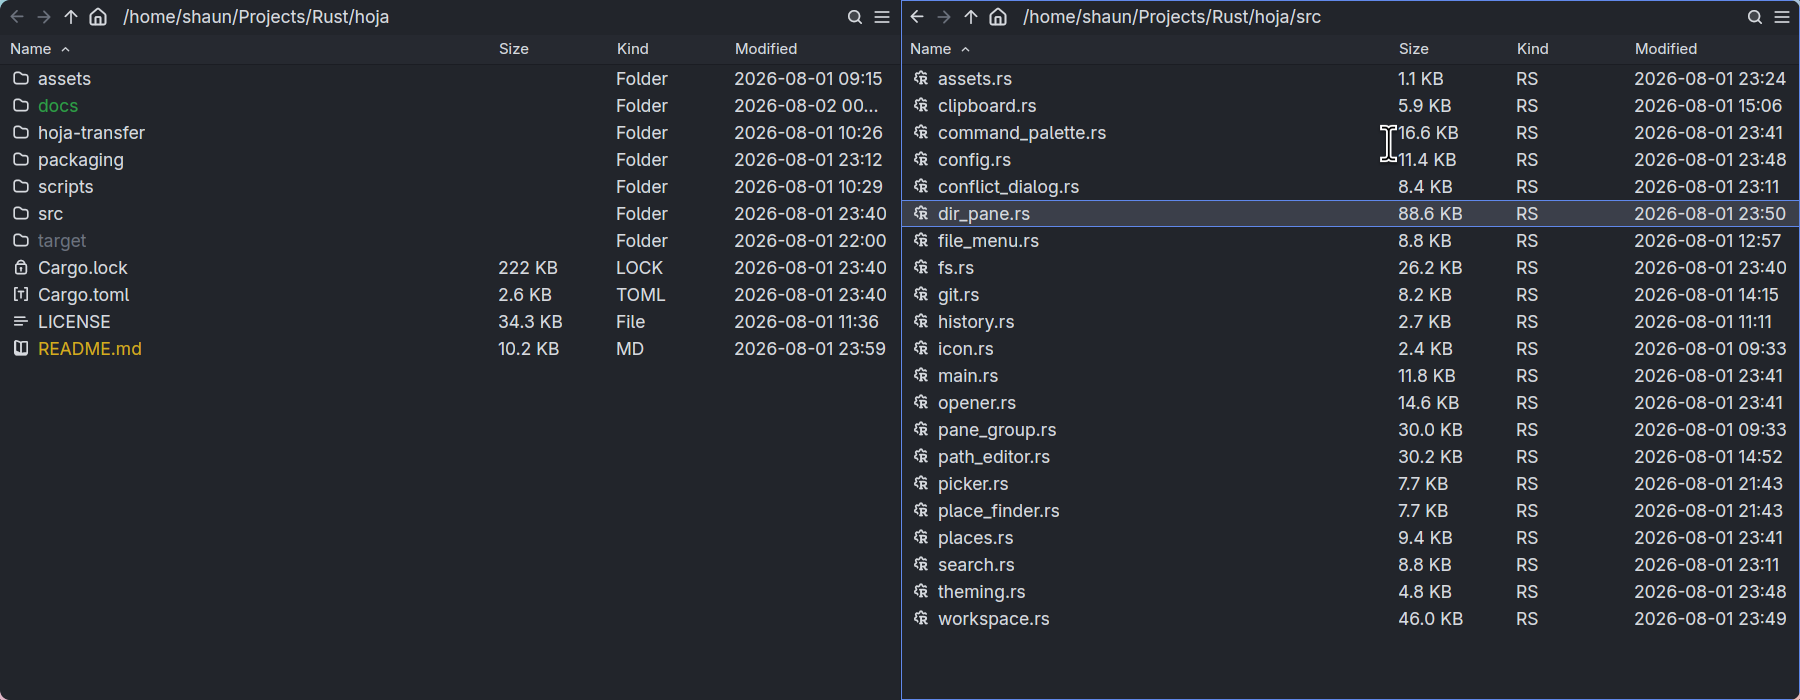
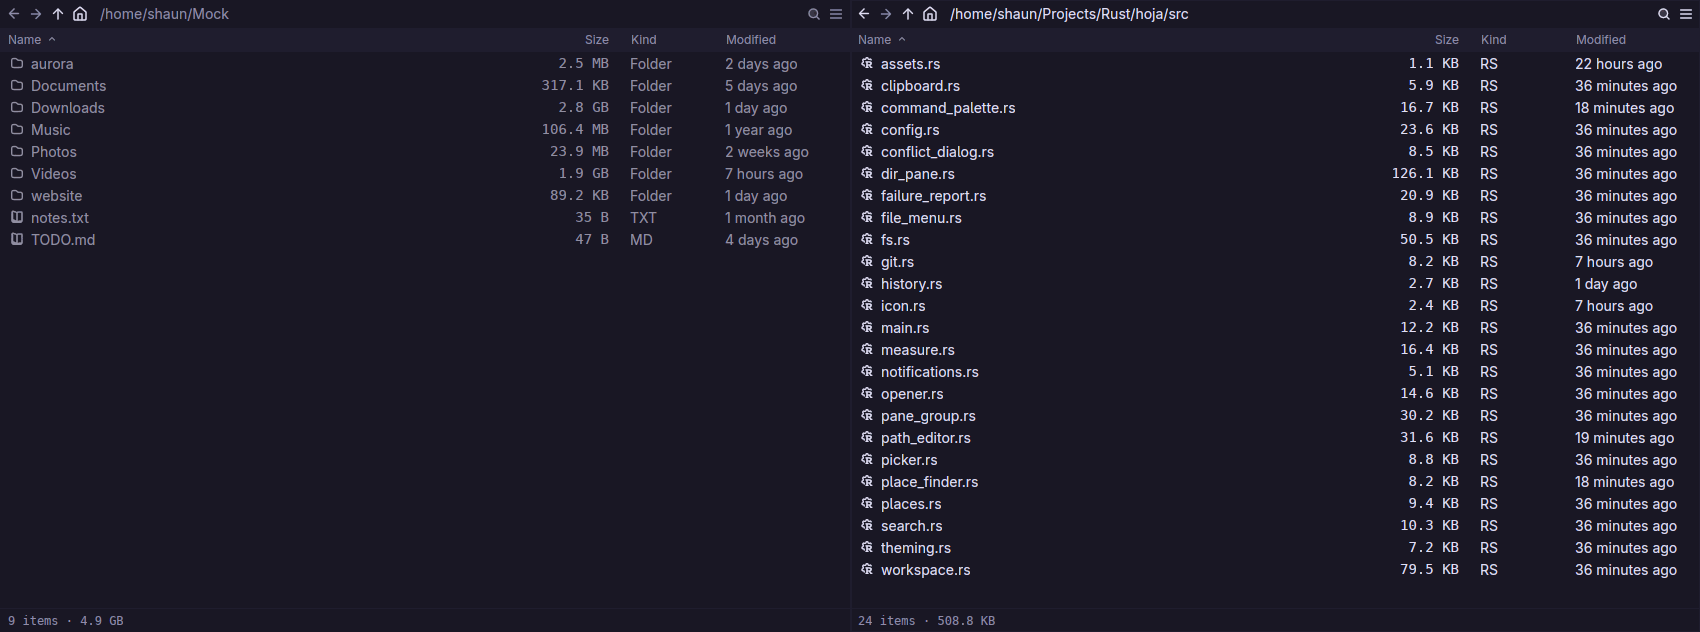
Retake the screenshot
The old one predated the pane footers, folder sizes and the Modified
column saying how long ago, so it showed none of them. It was also taken
on the desktop rather than in the harness, which left Hyprland's corner
rounding and a stray I-beam cursor in the image.

This one comes from `scripts/sway-harness.sh`, so the corners are square,
there is no cursor, and it is reproducible. Sized to the content rather
than to a window: 24 rows of source fill the pane with one to spare, where
the harness's usual 900px left a third of the frame empty.

The caption described git status colours, which this shot has none of
since the source tree is clean. It describes what is actually on screen
now; the feature list still explains the colours.

Claude-Session: https://claude.ai/code/session_01LEcmDkSV84zrtfgkpH2Qf5

diff --git a/README.md b/README.md
@@ -10,7 +10,7 @@ shows files in panes, so the word says both halves of it.
 **Warning:** hoja is experimental software. Do not use hoja as your only tool
 for important data.
 
-![Two panes on this repository. The colour of a name is its git status: green for untracked, orange for modified, dim for ignored.](docs/screenshot.png)
+![Two panes side by side in the Rosé Pine theme: a home directory on the left, where every folder shows a real recursive size, and hoja's own source on the right. Modified says how long ago rather than what o'clock, and each pane's footer totals exactly the rows above it.](docs/screenshot.png)
 
 ## Features
 
